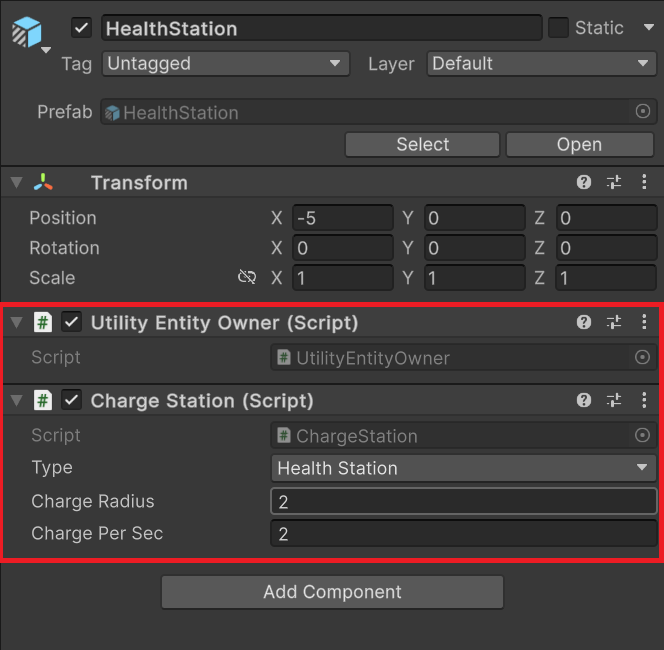
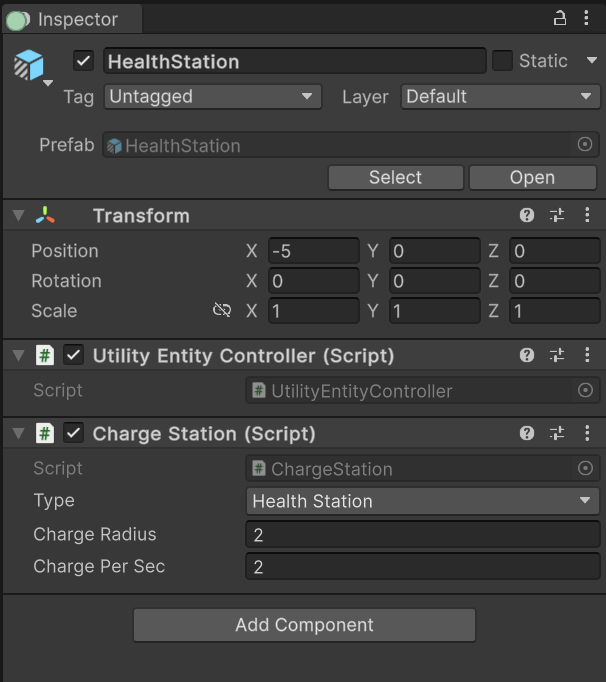
- update

Changed region(s): [[0.0, 0.0, 1.0, 1.0], [0.7723, 0.3077, 0.802, 0.3385]]

diff --git a/docs/UtilityIntelligence/UtilityWorld/utility-entity.md b/docs/UtilityIntelligence/UtilityWorld/utility-entity.md
@@ -13,7 +13,7 @@ A Utility Entity represents an object inside a [[UtilityIntelligence/UtilityWorl
 To transform a GameObject into a Utility Entity, you need to attach these two components to it:
 
 1. **Utility Entity Facade**
-	- It is used to interact with the Entity's Game Object. For example, [[UtilityIntelligence/UtilityIntelligence/target-filters|Target Filters]] can access the **Entity Facade** of both itself and the target to retrieve information from Game Objects in order to check the validity of the target.
+	- It is used to interact with the **Utility Entity**'s Game Object. For example, [[UtilityIntelligence/UtilityIntelligence/target-filters|Target Filters]] can access the **Entity Facade** of both itself and the target to retrieve information from the components of Game Objects in order to check the validity of the target.
 		```cs
 		public class OtherTeamFilter : TargetFilter
 		{
@@ -29,7 +29,7 @@ To transform a GameObject into a Utility Entity, you need to attach these two co
 		    }
 		}
 		```
-	- To create your own Utility Entity Facade, you need to create a class inherited from `UtilityEntityFacade`. For example:
+	- To create your own **Entity Facade**, you need to create a class inherited from `UtilityEntityFacade`. For example:
 		```cs
 		public class ChargeStation : UtilityEntityFacade
 		{
@@ -48,7 +48,7 @@ To transform a GameObject into a Utility Entity, you need to attach these two co
 		}
 		```
 1. **Utility Entity Controller**
-	- It will automatically create a Utility Entity when the game starts to manage the Game Object within the Utility World.
+	- The main role of a Utility Entity Controller is to create and manage the Utility Entity's lifecycle, including initialization, destruction, registration, and unregistration with utility worlds.
 	![[Attachments/UtilityIntelligence/Documentation/UtilityWorld/utility-entity.png|center|400]]
 
 ## Registering Utility Entities

diff --git a/docs/UtilityIntelligence/UtilityWorld/utility-agent.md b/docs/UtilityIntelligence/UtilityWorld/utility-agent.md
@@ -11,7 +11,7 @@ A Utility Agent is a special [[UtilityIntelligence/UtilityWorld/utility-entity|U
 
 To transform a Game Object into a Utility Agent, you need to attach these two components to it:
 1. **Utility Agent Facade**
-	- It is used to interact with the Game Object.
+	- It is similar to **Utility Entity Facade** but instead of interact with the GameObject of the **Utility Entity**, it is used to interact with the Game Object of the **Utility Agent**.
 	- To create your own Utility Agent Facade, you need to create a class inherited from `UtilityAgentFacade`. For example:
 		```cs
 		public class Character : UtilityAgentFacade
@@ -41,7 +41,8 @@ To transform a Game Object into a Utility Agent, you need to attach these two co
 		}
 		```
 1. **Utility Agent Controller**
-	- It will automatically create a Utility Agent when the game starts and manage it to make the right decisions based on the attached [[#Utility Intelligence Asset|Utility Intelligence Asset]]
+	- It is similar to **Utility Entity Controller**, but instead of create and manage the lifecycle of the **Utility Entity**, it creates and manage the lifecycle of the **Utility Agent**.
+	- It injects **Intelligence Data** from the [[#Utility Intelligence Asset]] into Utility Agent, granting the agent intelligence.
 ![[Attachments/UtilityIntelligence/Documentation/UtilityWorld/utility-agent.png|center|400]]
 
 

diff --git a/docs/UtilityIntelligence/UtilityWorld/utility-world.md b/docs/UtilityIntelligence/UtilityWorld/utility-world.md
@@ -5,7 +5,7 @@ category: Utility Intelligence
 ---
 
 A **Utility World** contains a collection of [[UtilityIntelligence/UtilityWorld/utility-entity|Utility Entities]], and 
-the main jobs of a Utility World are:
+the main roles of a Utility World are:
 1. Handling the decision-making process of all [[UtilityIntelligence/UtilityWorld/utility-agent|Utility Agents]] inside the world.
 3. Running the task associated with the chosen decision for all [[UtilityIntelligence/UtilityWorld/utility-agent|Utility Agents]]  inside the world.
 
